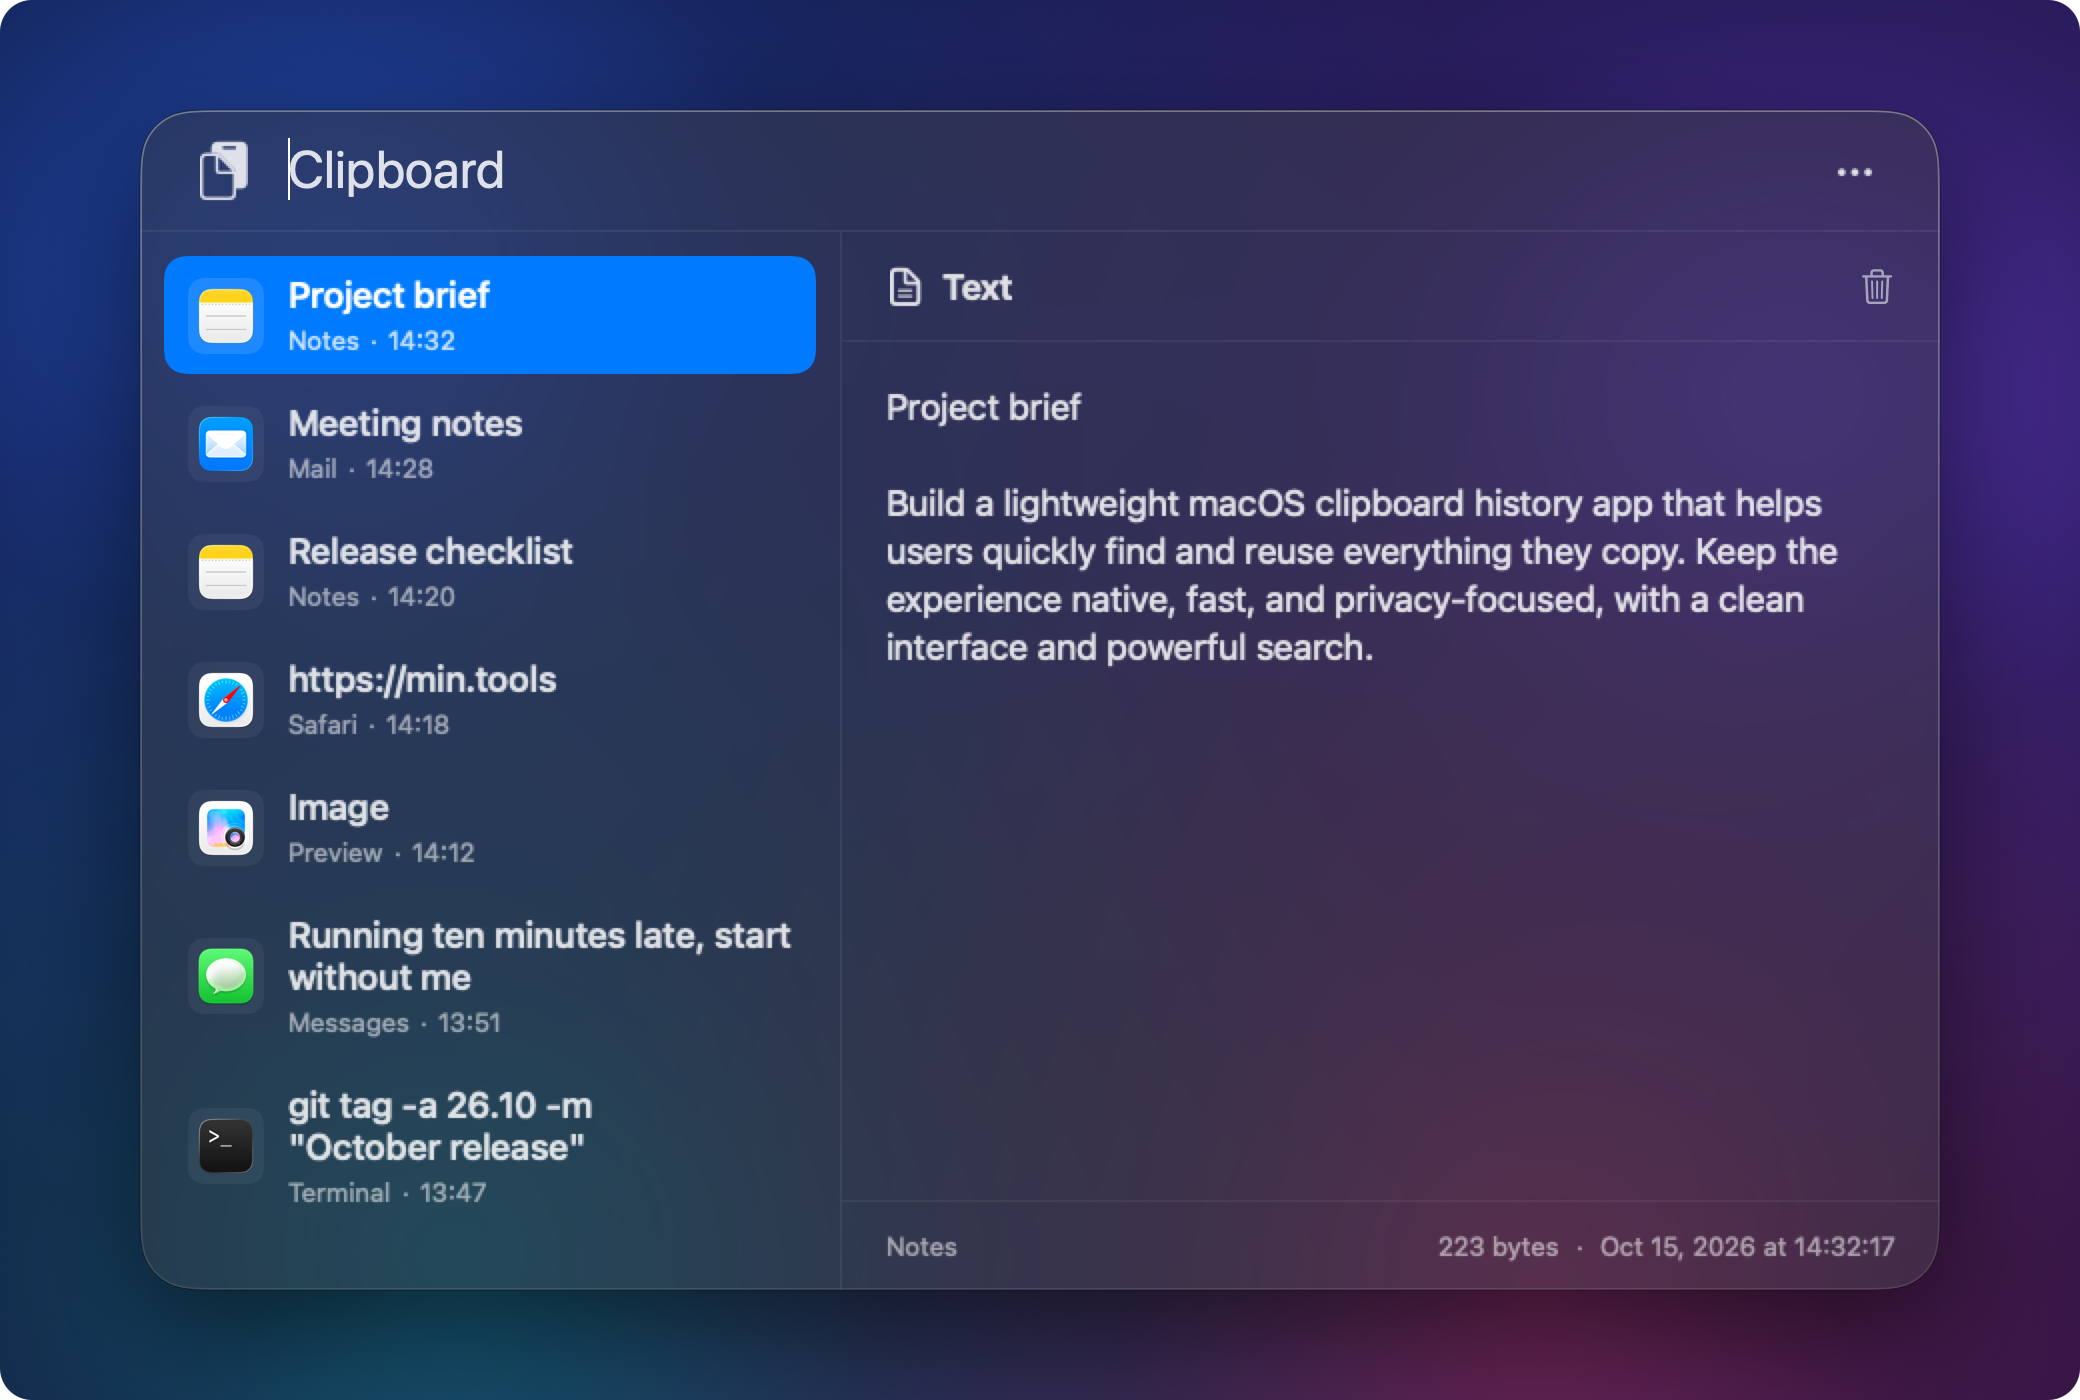
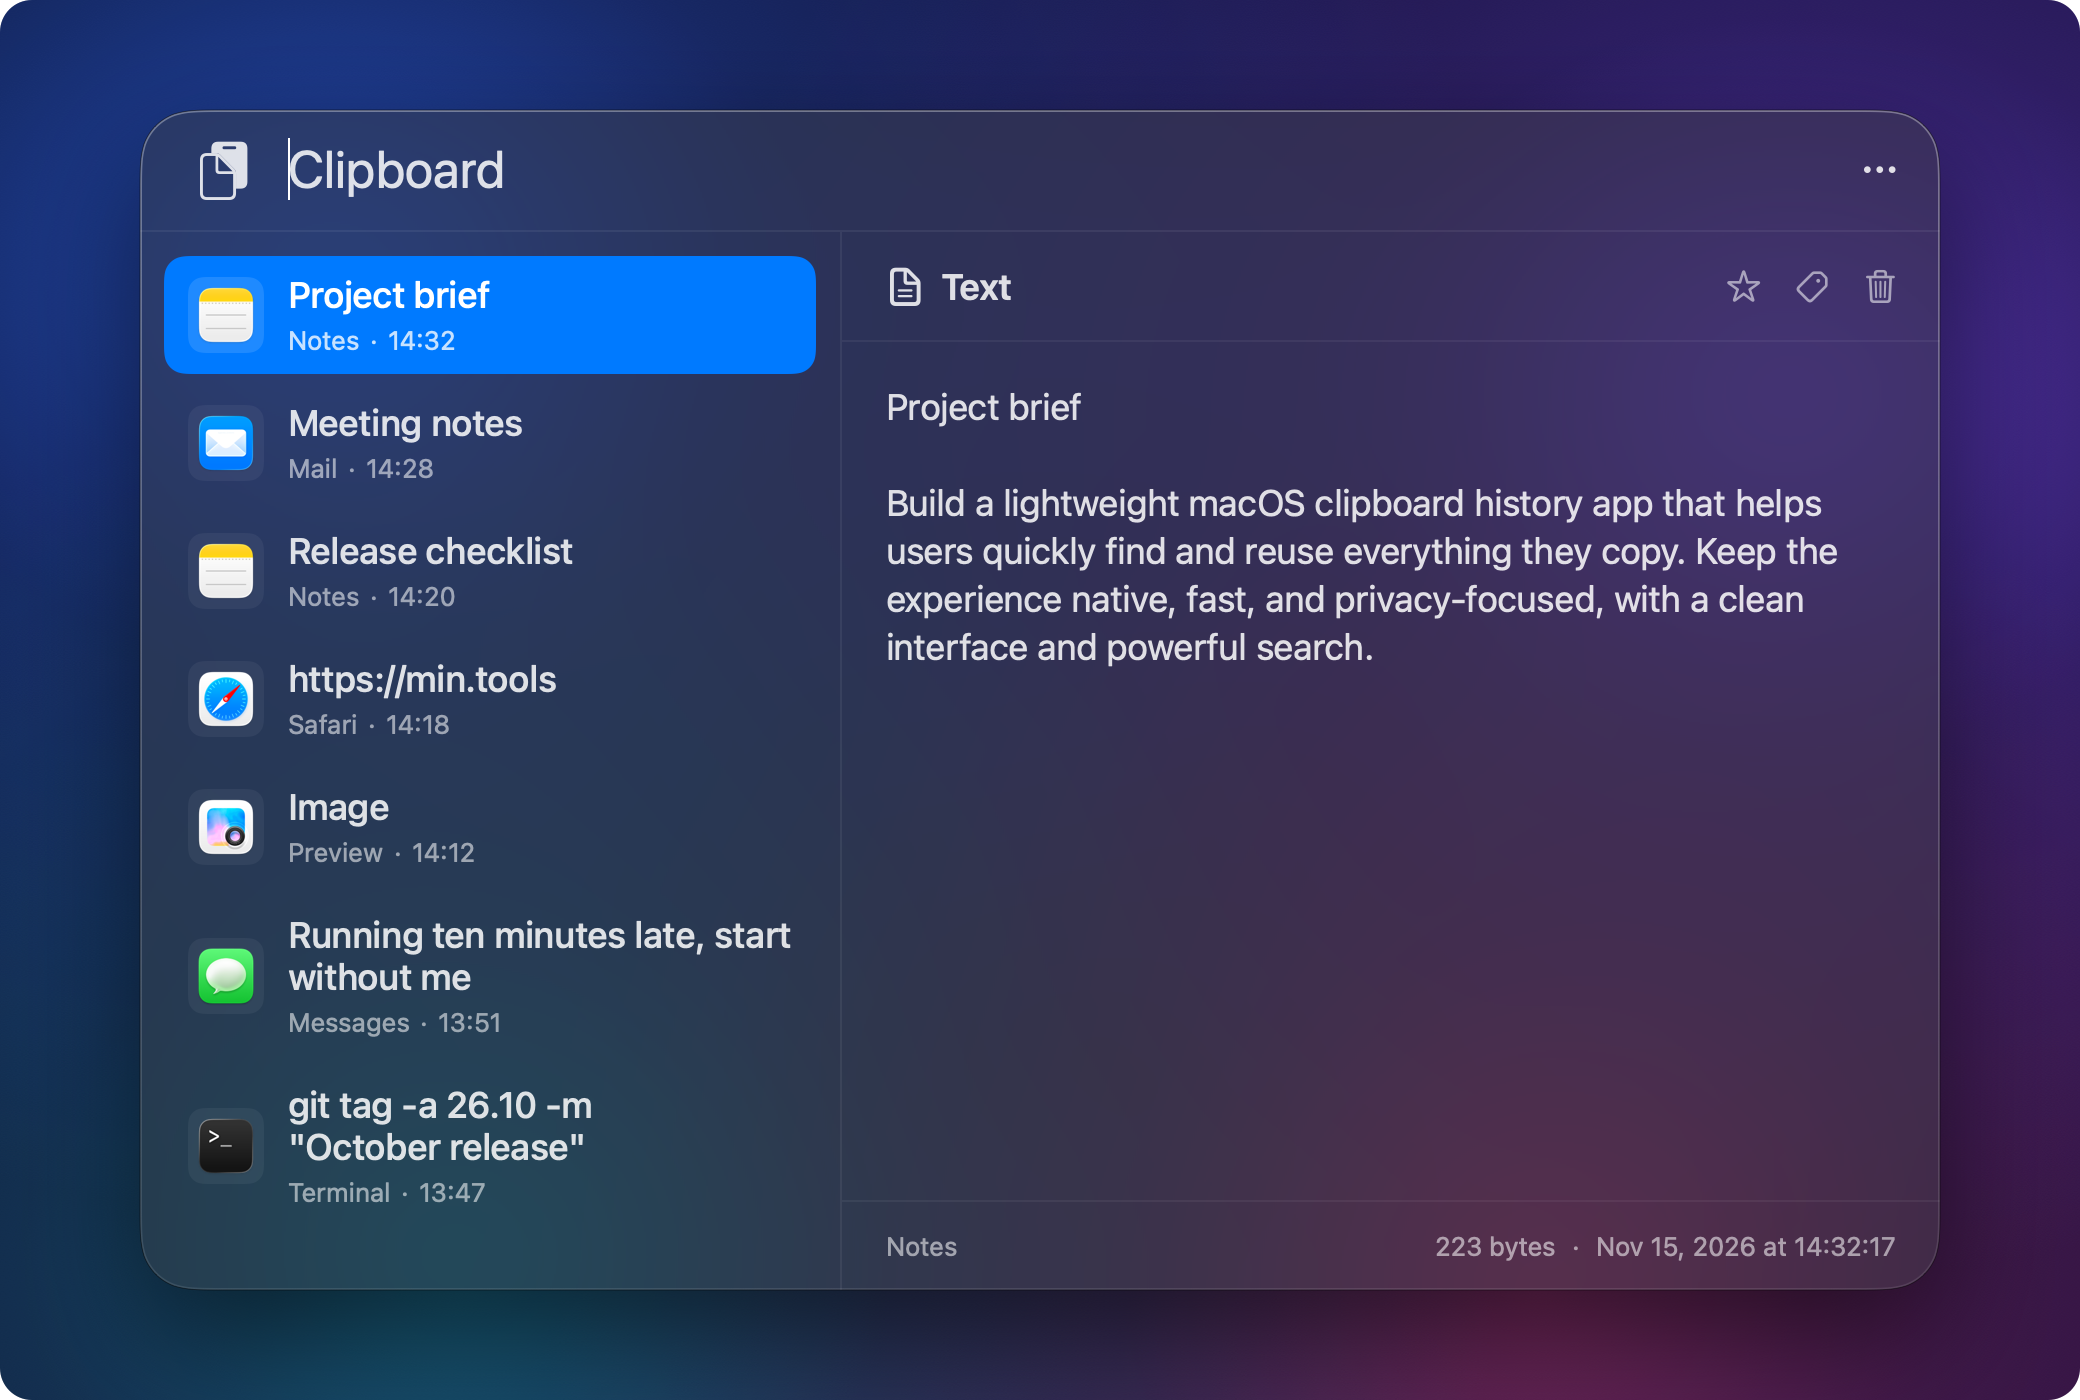
Update screenshots with star and tag controls

diff --git a/Sources/PasteminApp/ClipboardHistoryView.swift b/Sources/PasteminApp/ClipboardHistoryView.swift
@@ -43,6 +43,10 @@ private enum PanelIcon {
         return Image(systemName: name)
             .font(.system(size: opticalSize, weight: symbolWeight))
             .foregroundStyle(tint)
+            #if PASTEMIN_SCREENSHOTS
+            // Lower tags by half an output pixel in the screenshot renderer.
+            .offset(y: name.hasPrefix("tag") ? 0.5 / RenderHero.scale : 0)
+            #endif
     }
 }
 

diff --git a/scripts/render_hero.py b/scripts/render_hero.py
@@ -38,6 +38,7 @@ with tempfile.TemporaryDirectory(prefix='pastemin-hero-', dir='/private/tmp') as
     executable = folder / 'render-hero'
     command = swift_compiler() + [
         '-parse-as-library', '-swift-version', '5', '-module-name', 'PasteminHero',
+        '-D', 'PASTEMIN_SCREENSHOTS',
         '-module-cache-path', str(folder / 'modules'), '-target', 'arm64-apple-macos14.0',
         *map(str, SOURCES), '-framework', 'AppKit', '-framework', 'Carbon',
         '-framework', 'Accelerate', '-framework', 'CryptoKit', '-framework', 'ImageIO',
